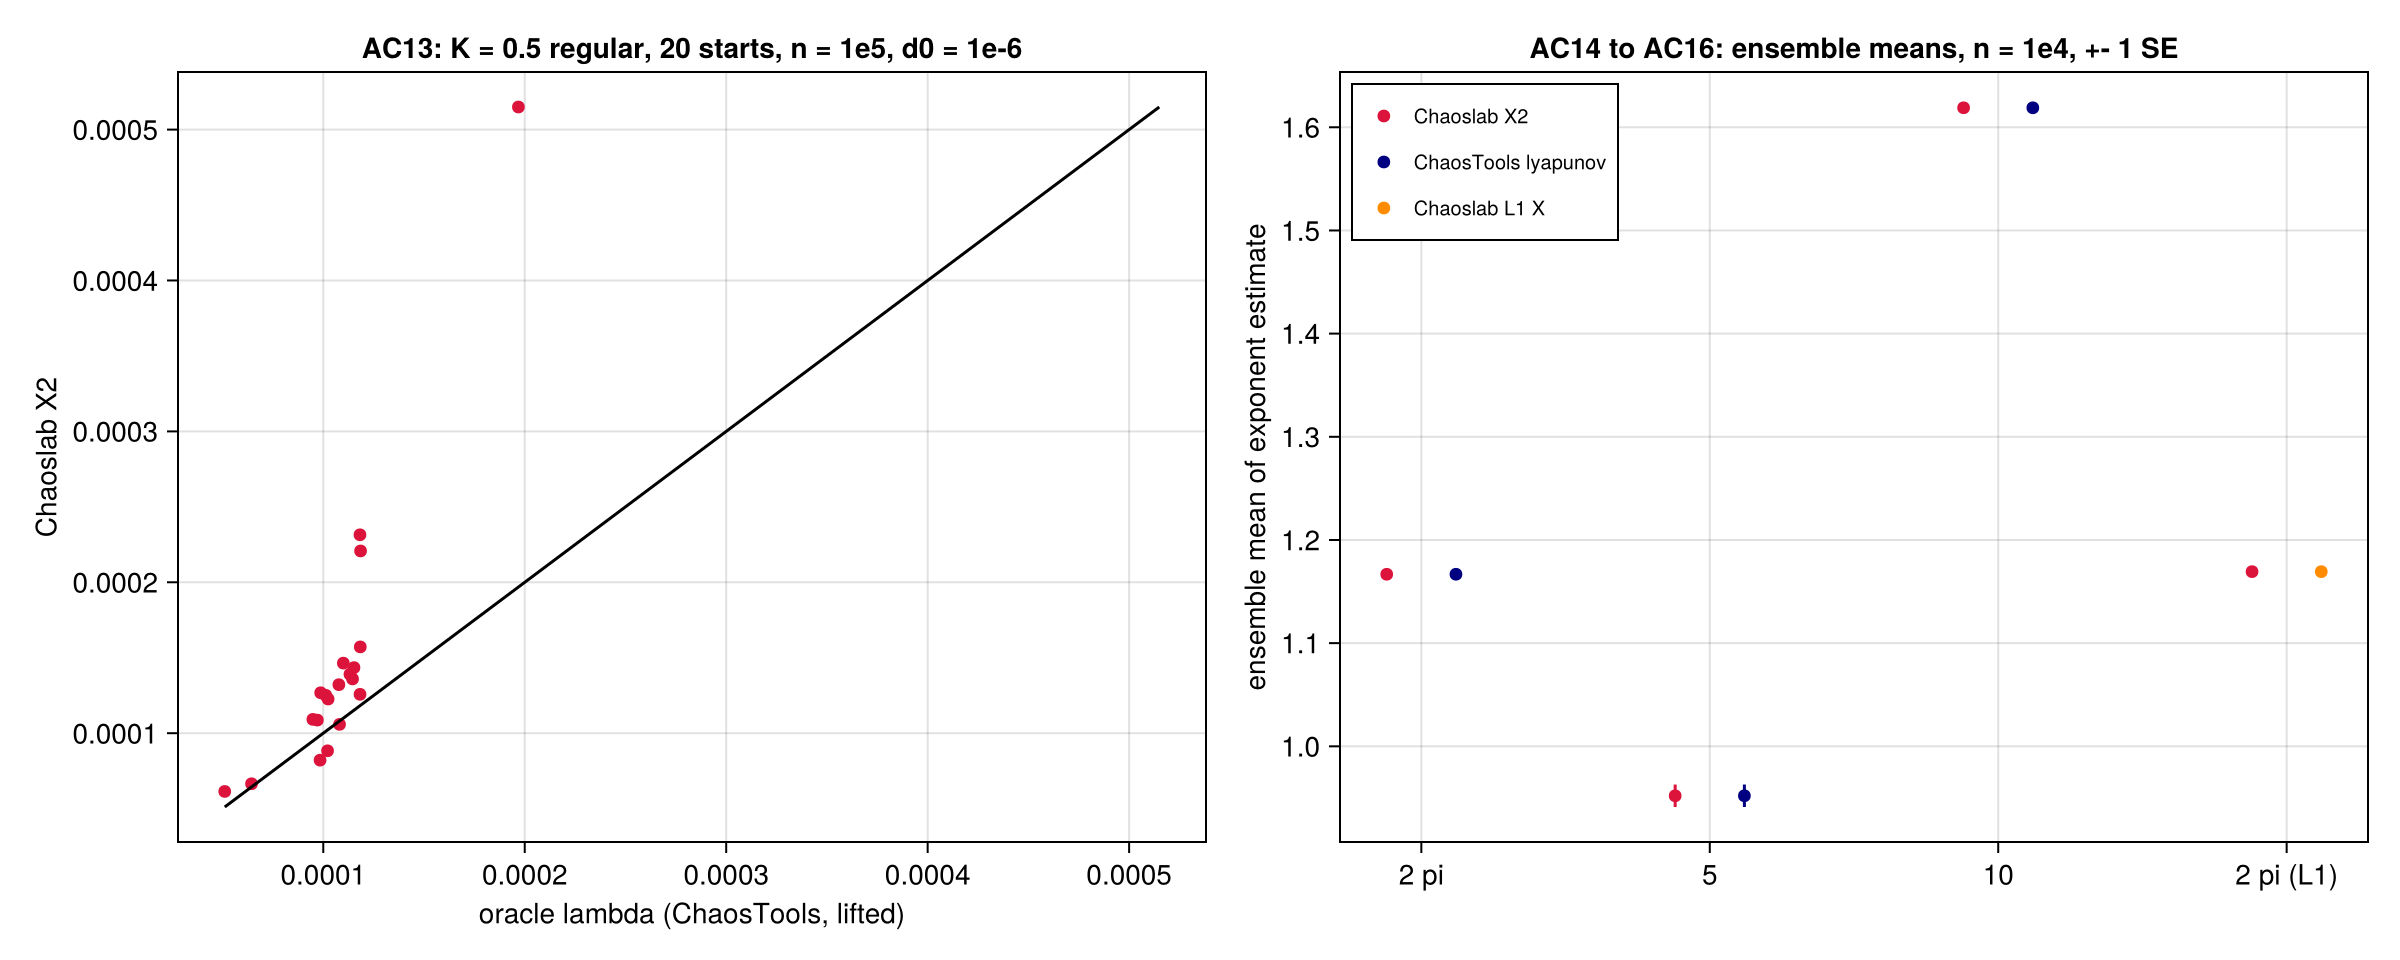
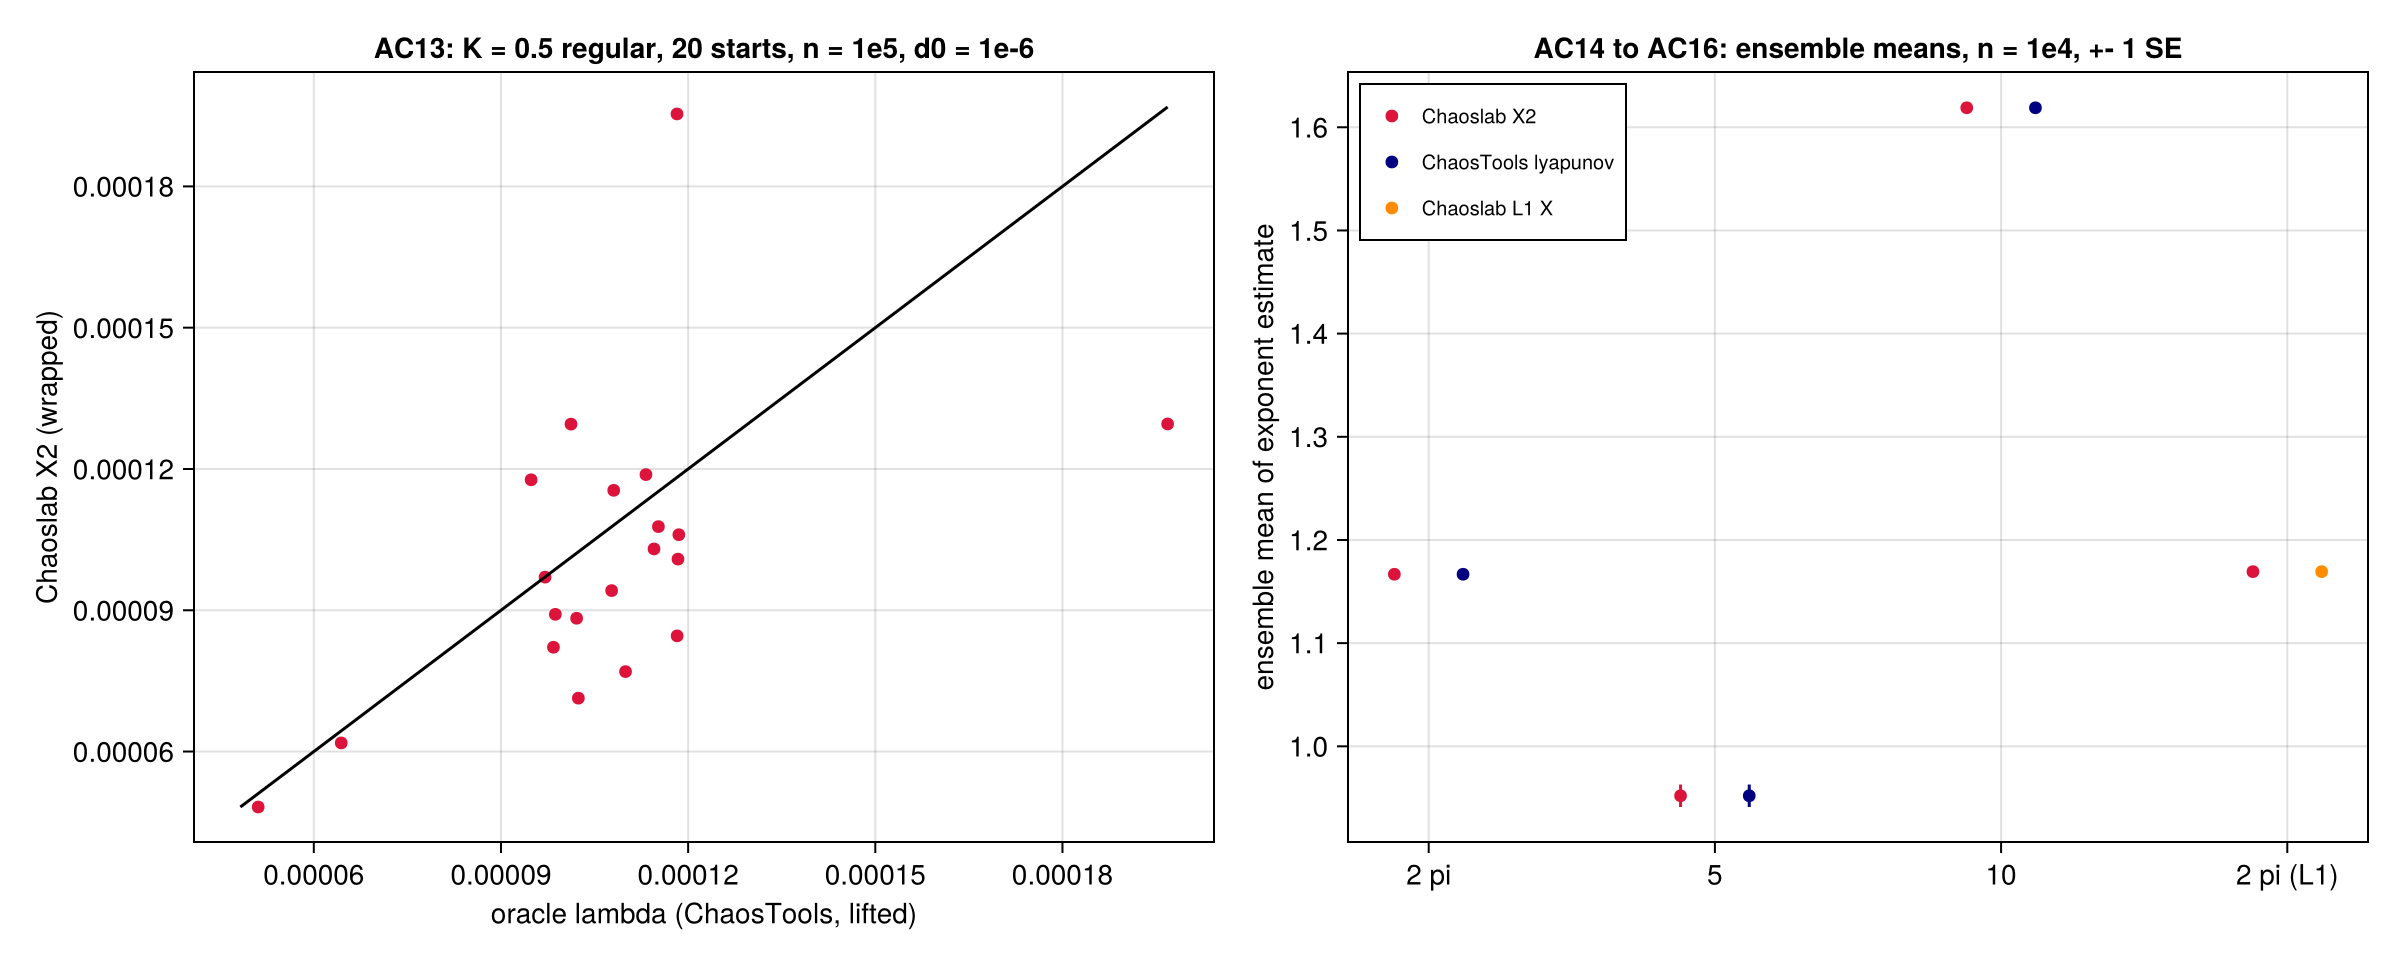
feat: D46, GPU stage 04 on the RTX 5060; close lyap-two-trajectory criterion 13
GPU stage 04 now runs on the GeForce RTX 5060 Laptop GPU (compute capability 12.0). Full verify/gpu.jl run: 64 PASS, 13 Double64 FALLBACK, 8 FAIL that were only the D44j precondition "more than 1 launch" (the budget fits n = 1e5 in one launch here). After the owner's D46 answers the D44 rerun passes 33 of 33.

- D44j accepts one launch per chunk when the budget fits n = 1e5; relaunch stays covered by D44c and D44k.
- D44c rows at tau = 10 run at K = 0.5 (1024 of 1024 orbits kept, was 58 at K = 2 pi).
- propagate and propagate_shadow: launch_steps and launches_per_chunk are 0 when the first device chunk fails before any launch completed (D44 review finding 1); tests in tc_d44.jl and l2_d44.jl.
- lyap-two-trajectory criterion 13 runs the Chaoslab side in wrapped mode: 7.717e-05 <= 1e-4 (lifted 3.181e-04 kept as information); catalog L2 verified.

Specs: tangent-core Amendment D44 corrections, lyap-two-trajectory Amendment D46. Package suite 49621 pass.

diff --git a/workspaces/module-build/stages/04-verify/output/tangent-core-verification.md b/workspaces/module-build/stages/04-verify/output/tangent-core-verification.md
@@ -193,3 +193,32 @@ None CRITICAL or HIGH.
 | 5 | LOW | The shadow start is computed again on the device at launch 1, besides the host check | Kept: it keeps the single-launch path unchanged (item 4), and the device needs the start code |
 | 6 | LOW | An OOM or lost device inside `compiles()` escapes the probe | Pre-existing (D29), unchanged by D44 |
 | 7 | LOW | The record run aborts the script on a fallback | Intended |
+
+## Amendment D46: stage 04 on the RTX 5060 (2026-10-17)
+
+### Evidence
+
+- **Machine:** NVIDIA GeForce RTX 5060 Laptop GPU (compute capability 12.0, 7.96 GiB), Intel Core Ultra 9 275HX, TdrDelay 8 s, CUDA.jl 6.4.2 (verify Manifest), Julia 1.13.2, 4 threads. From D46 on, this is the machine of every [local] criterion; the GTX 1050 sections above stay on record.
+- **Record (`data/gpu-benchmark.toml`, per machine, git-ignored):** Float64 GPU 2.468 ns per orbit-step (AC13 ensemble), one-wave value 9.137 ns (item 9; GTX 1050: 28.06), CPU 8.255 ns with 4 threads and 33.09 ns with 1 thread; GPU faster (speedup 3.3 against 4 threads, 13.4 against 1). Double64 falls back, "kernel does not compile for the element type", as on the GTX 1050.
+- **Full run before D46:** `gpu-rtx5060-verify-log.txt` (893 s): PASS 64, FAIL 8, FALLBACK 13 (all Double64), INFO 5. The 8 FAIL lines are the D44j rows, which failed only their precondition "more than 1 launch": the budget fits n = 1e5 in one launch on this card (L = 100000). Everything else of Batch A, Batch B and D44 passed.
+- **D46 rerun (tag d44):** `gpu-rtx5060-d46-verify-log.txt`: PASS 33 of 33, after the D46 corrections (spec Amendment D44, corrections at stage 04 on the RTX 5060) and the item 13 code change.
+- **Package suite:** 49621 pass, 0 fail (D46 tests: 25 in `test/tangent-core/tc_d44.jl`, 16 in `test/lyap-two-trajectory/l2_d44.jl`), Aqua and JET clean.
+
+| Criterion | Quantity | Value | Bound | Verdict |
+|---|---|---|---|---|
+| D44c [local] | Device bitwise, N = 2e3, forced L in {tau, 20 tau, 130 tau} against L = N and the unforced run: Benettin, QRSpectrum(RGS), SVDSpectrum; tau = 2 at K = 2 pi, tau = 10 at K = 0.5 (D46) | equal (6 rows), 1024 of 1024 orbits kept in every row | bitwise | PASS |
+| D44h [local] | Lost-device codes of the extension table | "device lost" for every code | as D44 | PASS |
+| D44i | One stepping body | 1 / 1; 2 | 1 / 1; 2 | PASS |
+| D44j [local] AC12a | tangent-core LogNorm, n = 1e5, tau = 10, L = 1e5, 1 launch per chunk: orbits above 1e-6 CPU / GPU; gap; estimate; measured full launch | 20 / 20; 9.444e-08; 1.0 s; 0.345 s | diff <= 3; <= 2e-6; <= 1 s; <= 4 s | PASS |
+| D44j [local] lyap-benettin AC16 | Benettin, same form | 18 / 17; 1.754e-07; 1.0 s; 0.370 s | same | PASS |
+| D44j [local] lyap-gram-schmidt AC12 | QRSpectrum(RGS) and (MGS), lambda_1 and lambda_2 | 1 / 1; 5.434e-07; 1.0 s; 0.582 s and 0.500 s | same | PASS |
+| D44j [local] lyap-householder-qr AC14a | Householder, Givens, Augmented; theta_sum ratio CPU and GPU | 1 / 1; 5.434e-07; 0.497 s, 0.473 s, 0.492 s; at most 3.1e-4 | same; <= 1 | PASS |
+| D44j [local] lyap-svd-stabilized AC10a | SVDSpectrum | 1 / 1; 5.434e-07; 1.0 s; 0.617 s | same | PASS |
+| D44k(c) [local] | propagate_shadow device bitwise, lifted and wrapped, K = 0.5 and 2 pi, tau = 2 and 10 | equal (8 rows) | bitwise | PASS |
+| Item 13 (D46) | Provenance after a fault in launch 1 of chunk 1 (lost device, out of memory, compile error): 0 and 0 unforced, the CPU values forced; device values kept after launch 3 or chunk 2 | as specified | exact | PASS (package suite) |
+
+### Findings
+
+- The D44j values equal the GTX 1050 values to every printed digit (same seeds, same Float64 kernel), so the relaunch at three launches and the single launch here agree with the same Double64 reference.
+- With one launch per chunk at n = 1e5, the relaunch path on this card is exercised by D44c and D44k at N = 2e3 with forced L (owner, D46).
+- The measured full launches (0.34 to 0.62 s) are below the 1 s estimate, so the launch estimate is conservative on this card; the GTX 1050 finding about heavier reducers (1.3 to 3.0 s against 1 s) does not reproduce here.

diff --git a/_config/decision-log.md b/_config/decision-log.md
@@ -49,3 +49,4 @@ Layer 3, canonical. One row per structural decision: what was chosen, why, and w
 | D43 | 2026-10-16 | M2 Batch B integrated (lyap-benettin, lyap-gram-schmidt, lyap-householder-qr, lyap-svd-stabilized, lyap-two-trajectory): catalog L1, L2, L3, L4, L4b, L5, L5b (H2), L6, L9 (d = 2) and Y1 verified. Checkpoint dispositions: lyap-gram-schmidt I6 restated without the bitwise claim; the ChaosTools initial-frame statements of lyap-benettin P4 and tangent-core D30 T2 corrected (identity frame only); lyap-two-trajectory criterion 13 sent back to stage 01, open before M2 exit; AC17 regular part accepted in the D42 configuration, recorded as not discriminating; the error-700 fallback label ("launch exceeds the display watchdog" for a lost device) goes to the D33 named run before M2 exit; the K15 record is keyed by element type, not by reducer chain (known gap, behaviour unchanged while the gate is met); review rows marked "owner" stay open in the stage 04 reports | owner acceptance of the Batch B stage 04 checkpoint (2026-10-16) | criterion 13 fails after re-specification, or a later run finds an estimator outside its verified range |
 | D44 | 2026-10-16 | Step-chunked relaunch (the D33 named run): a device run is split into launches of L steps, L a multiple of tau, carrying point, deviation matrix, reducer states and global step count; the budget picks L, so N no longer refuses the device; a fault in any launch reruns the whole chunk on the CPU from its start. Owner answers: ninth fallback reason "device lost" for every lost-device code, the watchdog string kept for the budget case only; lyap-two-trajectory gets the same relaunch with its own carried state; its criterion 17 stays at n = 4e4; the budget reads a second recorded value measured at one wave (1024 orbits, slower of two runs), criterion 13 and the GPU-faster flag unchanged. Spec: tangent-core Amendment D44 | the budget cut five checks to n = 4e4 (and AC12a fell back); error 700 was labelled as a watchdog timeout; the D33 record was about 1.7 times optimistic at one wave | a launch of the chosen L measures above 4 s, or a check run at n = 1e5 fails its original tolerance |
 | D45 | 2026-10-17 | Pushes need no human approval; never force-push; pull requests and submissions still need explicit approval; supersedes the push part of the approval rule in `CLAUDE.md` and the stage contracts (literature-review/05, module-build/05, paper/04) | owner's instruction; unpushed local commits were lost when the working folder was wiped on 2026-10-16 | owner says so |
+| D46 | 2026-10-17 | GPU stage 04 runs on the RTX 5060 Laptop GPU (compute capability 12.0) from now on; the GTX 1050 results stay on record. Owner answers at the D44 stage 04 checkpoint: D44j accepts one launch per chunk when the device budget fits n = 1e5 (relaunch covered by D44c and D44k); D44c rows at tau = 10 run at K = 0.5; the two provenance fields are 0 when the first device chunk fails in its first launch (review finding 1); lyap-two-trajectory criterion 13 runs the Chaoslab side in wrapped mode with the bound kept at 1e-4. Specs: tangent-core Amendment D44 corrections, lyap-two-trajectory Amendment D46 | owner's instruction; on the RTX 5060 the budget fits n = 1e5 in one launch (one-wave 9.14 ns per orbit-step), so the eight D44j rows failed only their launch-count precondition; 58 of 1024 orbits at K = 2 pi, tau = 10; lifted round-off (coordinates near 6e5) caused the criterion 13 failure | a later device again needs more than one launch at n = 1e5, or wrapped criterion 13 fails |

diff --git a/workspaces/module-build/stages/01-spec/output/tangent-core-spec.md b/workspaces/module-build/stages/01-spec/output/tangent-core-spec.md
@@ -260,3 +260,9 @@ Correction to D44a (owner, stage 02 checkpoint, 2026-10-16): with K = 2 pi and t
 Correction to item 2 (owner, stage 03, 2026-10-16): besides the numerical state, each orbit carries its status code and the global step of a failed handoff, so an orbit that failed in an earlier launch is not advanced and the chunk reports the lowest failing orbit id after the last launch, as one launch does.
 
 Correction to the D44a correction (CI on Julia 1.10, 2026-10-17): D44a runs 512 seeded orbits, not 256. At 256 the QR spectrum and singular-value cases at tau = 10 kept 64 orbits on Julia 1.13 and 62 on Julia 1.10, at or below the floor of 64; at 512 they keep 125 and 121. The floor of 64 and the bitwise comparison are unchanged.
+
+Corrections at stage 04 on the RTX 5060 (owner, 2026-10-17, decision D46). The local hardware of the [local] criteria is now the NVIDIA GeForce RTX 5060 Laptop GPU (compute capability 12.0, TdrDelay 8 s); the GTX 1050 results stay on record.
+
+- D44j: "launches per chunk above 1" becomes "launches per chunk at least 1". On a device whose budget fits n = 10^5 in one launch (the RTX 5060: one-wave record 9.14 ns per orbit-step, against 28.06 on the GTX 1050), each row must still finish on the device (device chunk count above 0, backend gpu, empty reason) and pass its original tolerance unchanged; the relaunch path itself is then covered by D44c and D44k. The per-launch estimate and full-launch limits are unchanged.
+- D44c: the rows at tau = 10 run at K = 0.5 instead of K = 2 pi. At K = 2 pi with tau = 10 only 58 of 1024 orbits survived the orthonormalisation-breakdown filter for the QR spectrum (repeated Gram-Schmidt) and singular-value reducers. The rows at tau = 2 keep K = 2 pi. The drop rule (CPU, then device) and the bitwise tolerance are unchanged.
+- Item 13: the two provenance fields are also 0 when the first device chunk fails in its first launch, so that no launch completed on the device (review finding 1); a forced CPU step chunk still records its own L. After a failure in launch j > 1, or in a later chunk, the fields keep the device values as before.

diff --git a/_config/catalogs/lyapunov.md b/_config/catalogs/lyapunov.md
@@ -9,7 +9,7 @@ Every variational method below consumes the same tangent stream from `Tangent.pr
 | ID | Method | Gives | Vectors | Main numerical issue | Source | Phase | Status |
 |----|--------|-------|---------|----------------------|--------|-------|--------|
 | L1 | Benettin single-vector renormalization (finite-time mLCE lambda_1(n)) | lambda_1(n) | 1 | slow O(ln n / n) convergence for regular orbits; threshold ambiguity in weak chaos | Benettin1980a, Skokos2010 | M2 | verified |
-| L2 | Two-trajectory (shadow orbit) separation with periodic renormalization | approx. lambda_1 | 0 (second orbit) | perturbation too large: nonlinear saturation; too small: round-off; wrapped vs lifted coordinates | Benettin1976, Wolf1985 | M2 | verified (criterion 13 open, D43) |
+| L2 | Two-trajectory (shadow orbit) separation with periodic renormalization | approx. lambda_1 | 0 (second orbit) | perturbation too large: nonlinear saturation; too small: round-off; wrapped vs lifted coordinates | Benettin1976, Wolf1985 | M2 | verified |
 
 ## B. Variational, full spectrum by reorthonormalization (discrete QR family)
 
@@ -58,7 +58,7 @@ Analytic Jacobian (default, ground truth); automatic differentiation (forward mo
 
 Status: verified (M2 Batch A, tangent-core: analytic Jacobians checked against ForwardDiff and complex step; integration commit abef540, decision D22).
 
-Status of rows L1 to L6 and L9: M2 Batch B (lyap-benettin, lyap-gram-schmidt, lyap-householder-qr, lyap-svd-stabilized, lyap-two-trajectory), decision D43; L2 criterion 13 is open (sent back to stage 01).
+Status of rows L1 to L6 and L9: M2 Batch B (lyap-benettin, lyap-gram-schmidt, lyap-householder-qr, lyap-svd-stabilized, lyap-two-trajectory), decision D43; L2 criterion 13 re-specified in wrapped mode and verified (D46).
 
 ## D3. Benchmark values (pointer)
 

diff --git a/workspaces/module-build/stages/04-verify/output/lyap-two-trajectory-verification.md b/workspaces/module-build/stages/04-verify/output/lyap-two-trajectory-verification.md
@@ -141,3 +141,15 @@ Step-chunked relaunch (tangent-core spec, Amendment D44, item 15). Evidence:
 - D44k(a), (b) and (d): `test/lyap-two-trajectory/l2_d44.jl`, 477 pass.
 - D44k(c) [local]: device bitwise on the GTX 1050 for lifted and wrapped, K = 0.5 and 2 pi, tau = 2 and 10, 256 orbits, N = 2e3, forced L in {tau, 20 tau, 130 tau} against L = N. Eight rows equal; see `tangent-core-verification.md`, "Amendment D44", and `gpu-d44-verify-log.txt`.
 - Criterion 17 stays at n = 4e4 (owner, D44). AC17(a) and (c) pass again with the relaunch code.
+
+## Amendment D46: criterion 13 in wrapped mode (2026-10-17)
+
+Criterion 13 as re-specified (spec Amendment D46): the Chaoslab side in wrapped mode (wrapped state plus winding counts), the oracle with its lifted rule, bound 1e-4. Script `verify/lyap-two-trajectory.jl`, sections oracle and figure-oracle; log `lyap-two-trajectory-d46-verify-log.txt` (5 PASS, 0 FAIL); figure `lyap-two-trajectory-oracle.png` (left panel now wrapped).
+
+| Criterion | Quantity | Value | Bound | Verdict |
+|---|---|---|---|---|
+| 13 (V) | K = 0.5 regular class, 20 starts, n = 1e5, d0 = 1e-6, wrapped (oracle lifted rule): max abs(X2 - oracle); mean X2 1.009e-4, mean oracle 1.075e-4 | 7.717e-05 | <= 1e-4 | PASS |
+| 13 info | Same with the Chaoslab side lifted (the pre-D46 form) | 3.181e-04 | info | INFO |
+| 14, 15, 16 (V) | Ensemble means (rerun in the same section) | as before | as before | PASS |
+
+The lifted run reproduces the D43 value exactly; the wrapped run removes the lifted-mode round-off (coordinate magnitude about 6.3e5) and passes with margin 1.3. Criterion 13 is closed.

diff --git a/workspaces/module-build/stages/01-spec/output/lyap-two-trajectory-spec.md b/workspaces/module-build/stages/01-spec/output/lyap-two-trajectory-spec.md
@@ -130,3 +130,9 @@ Criterion 13 is sent back to stage 01 (owner's choice at the stage 04 checkpoint
 ## Amendment D44 (2026-10-16)
 
 The device run of this estimator gets the step-chunked relaunch of tangent-core spec Amendment D44: carried state, budget, lost-device rule, the ninth fallback reason and the two provenance fields are defined there (items 6 to 15), and its criteria are D44k there. Criterion 17 stays at n = 4e4 (owner).
+
+## Amendment D46 (2026-10-17)
+
+Criterion 13 as re-specified (owner's choice at the stage 01 checkpoint after D43): the Chaoslab side runs in wrapped mode (wrapped state plus winding counts, D28, T3), the oracle keeps its lifted rule, and the bound stays 1e-4.
+
+13. (V) External two-trajectory oracle, regular class K = 0.5 (S7 screening), 20 starts, n = 1e5, d0 = 1e-6 on both sides, Chaoslab side in wrapped mode, oracle with the lifted rule, oracle start placed along the seeded direction (Oracle): |X2(n) - lambda^oracle(n)| <= 1e-4. Why the bound holds in wrapped mode: M_state = max(1, abs(K), 2 pi) (Acceptance criteria, preamble), so the per-step round-off E_ro does not grow with the lifted coordinate magnitude (about 6e5 at n = 1e5 on these orbits), which caused the 3.18e-4 of the lifted run (D43). Recorded line (no threshold): the same comparison with the Chaoslab side lifted, the pre-D46 form.

diff --git a/CHANGELOG.md b/CHANGELOG.md
@@ -43,6 +43,12 @@ All notable changes to `Chaoslab` and this repository. Versions follow Semantic 
 - The CUDA extension raises the device stack limit to at least 4 KiB at load, so `SVDSpectrum` runs on the GPU instead of failing with an illegal-address error at the 1 KiB default (D40).
 - Tangent-core spec Oracle corrected (D30): ChaosTools `lyapunov` is the two-trajectory method and `lyapunovspectrum` the tangent oracle; identical initial vectors are possible. Amendment D30 appended to the tangent-core and diagnostics specs.
 
+### Changed (D46)
+
+- GPU stage 04 moves to the GeForce RTX 5060 Laptop GPU (compute capability 12.0): full `verify/gpu.jl` run and the D44 rerun pass there (D46); D44j accepts one launch per chunk when the budget fits n = 1e5, the D44c rows at tau = 10 run at K = 0.5.
+- `propagate` and `propagate_shadow`: the provenance fields `launch_steps` and `launches_per_chunk` are 0 when the first device chunk fails before any launch completed (review finding 1 of D44, D46).
+- lyap-two-trajectory criterion 13 runs the Chaoslab side in wrapped mode and passes at 1e-4; catalog L2 is verified without open criteria (D46).
+
 ### Deferred, with reason
 
 - `bin/chaoslab.jl`, `python/nbody/`: no caller before M3 (D16).

diff --git a/ext/CONTEXT.md b/ext/CONTEXT.md
@@ -39,7 +39,7 @@ The per-machine record is `data/gpu-benchmark.toml` (git-ignored), written by `v
 ## Tests and verification
 
 - Package (no GPU in CI): `test/tangent-core/tc_device.jl` drives the device path with a fake device on the CPU backend, including the fake lost-device case.
-- Local GPU run: `verify/gpu.jl` (every GPU criterion of Batch A), on the GeForce GTX 1050 recorded in the report. A real launch timeout cannot be provoked on purpose.
+- Local GPU run: `verify/gpu.jl` (every GPU criterion of Batch A), on the GeForce RTX 5060 Laptop GPU from D46 (`tangent-core-verification.md`, section "Amendment D46"); the GTX 1050 runs of Batch A, Batch B and D44 stay in the reports. A real launch timeout cannot be provoked on purpose.
 
 ## Deferred
 

diff --git a/src/Lyapunov/CONTEXT.md b/src/Lyapunov/CONTEXT.md
@@ -69,5 +69,5 @@ Spec: `workspaces/module-build/stages/01-spec/output/<slug>-spec.md` for the fiv
 |------|-------|
 | H1 (Householder, second iteration path) | lyap-householder-qr spec, held; only H2 (diagonal iteration) exists |
 | General-`d` singular-value exponents | held for M3, D32 |
-| lyap-two-trajectory criterion 13 (external two-trajectory oracle), sent back to stage 01 | D43 |
+| lyap-two-trajectory criterion 13 (external two-trajectory oracle): re-specified in wrapped mode, verified | D43, D46 |
 | Float32 | D24 |
